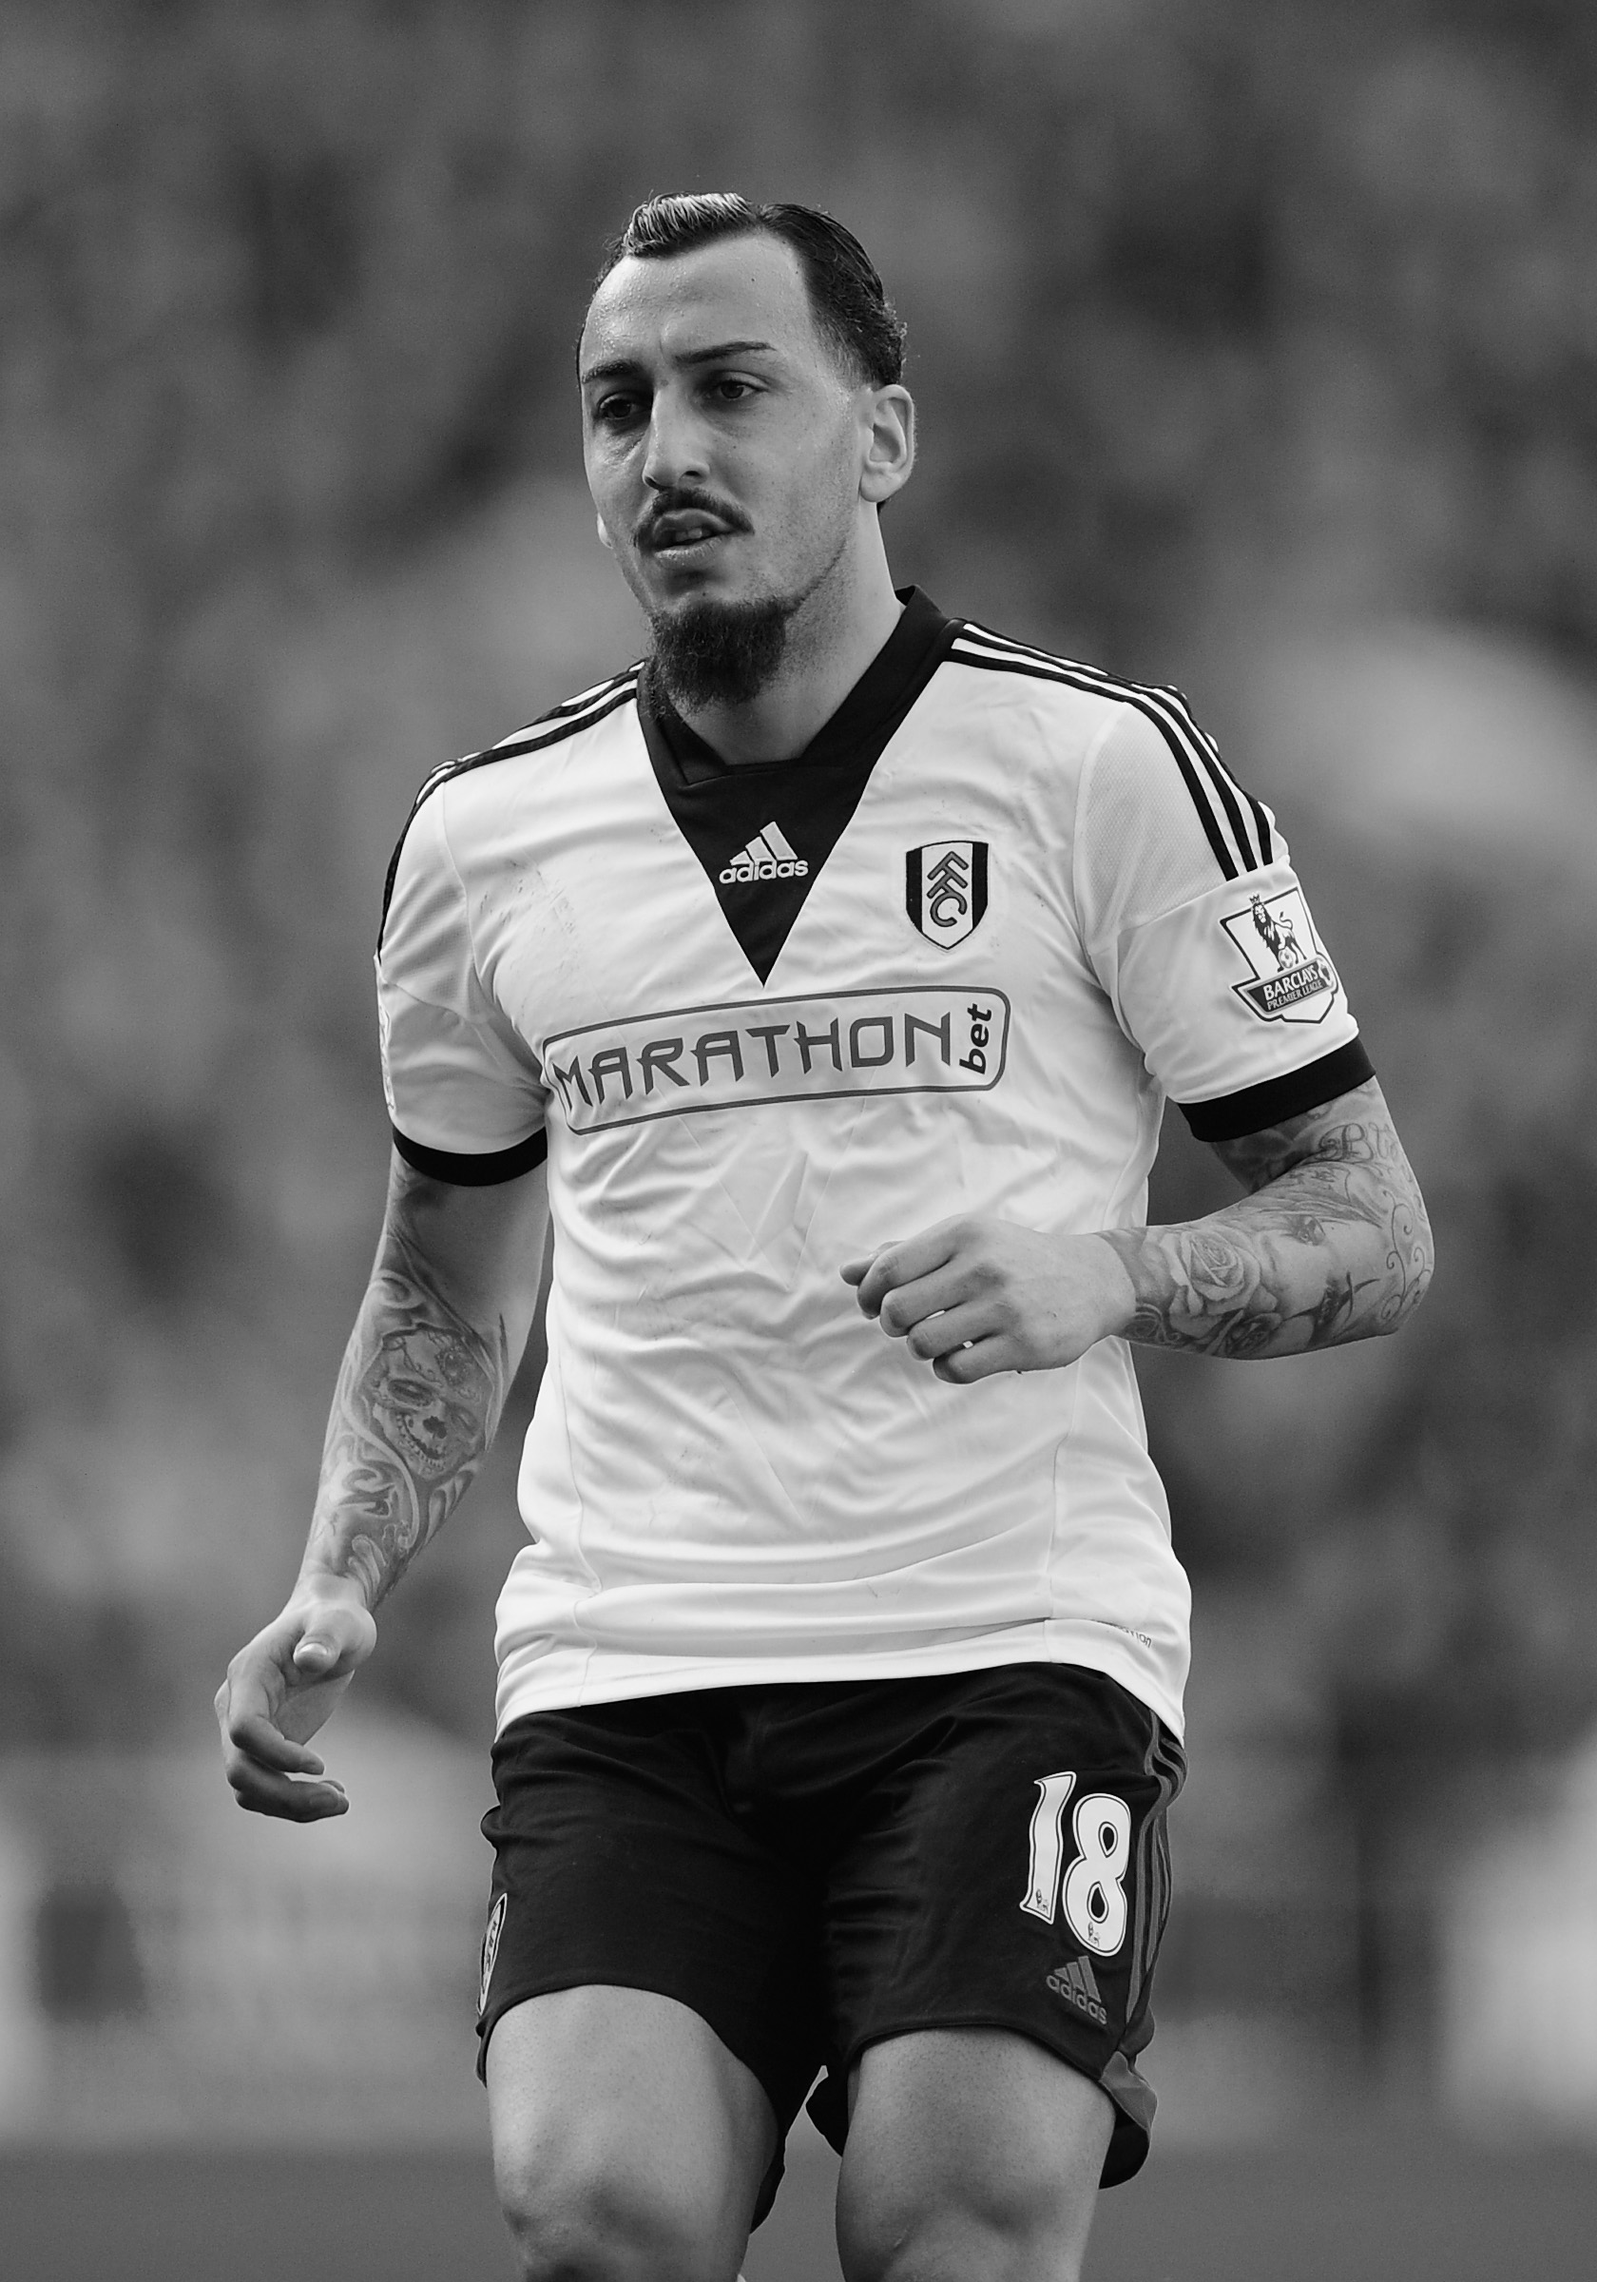
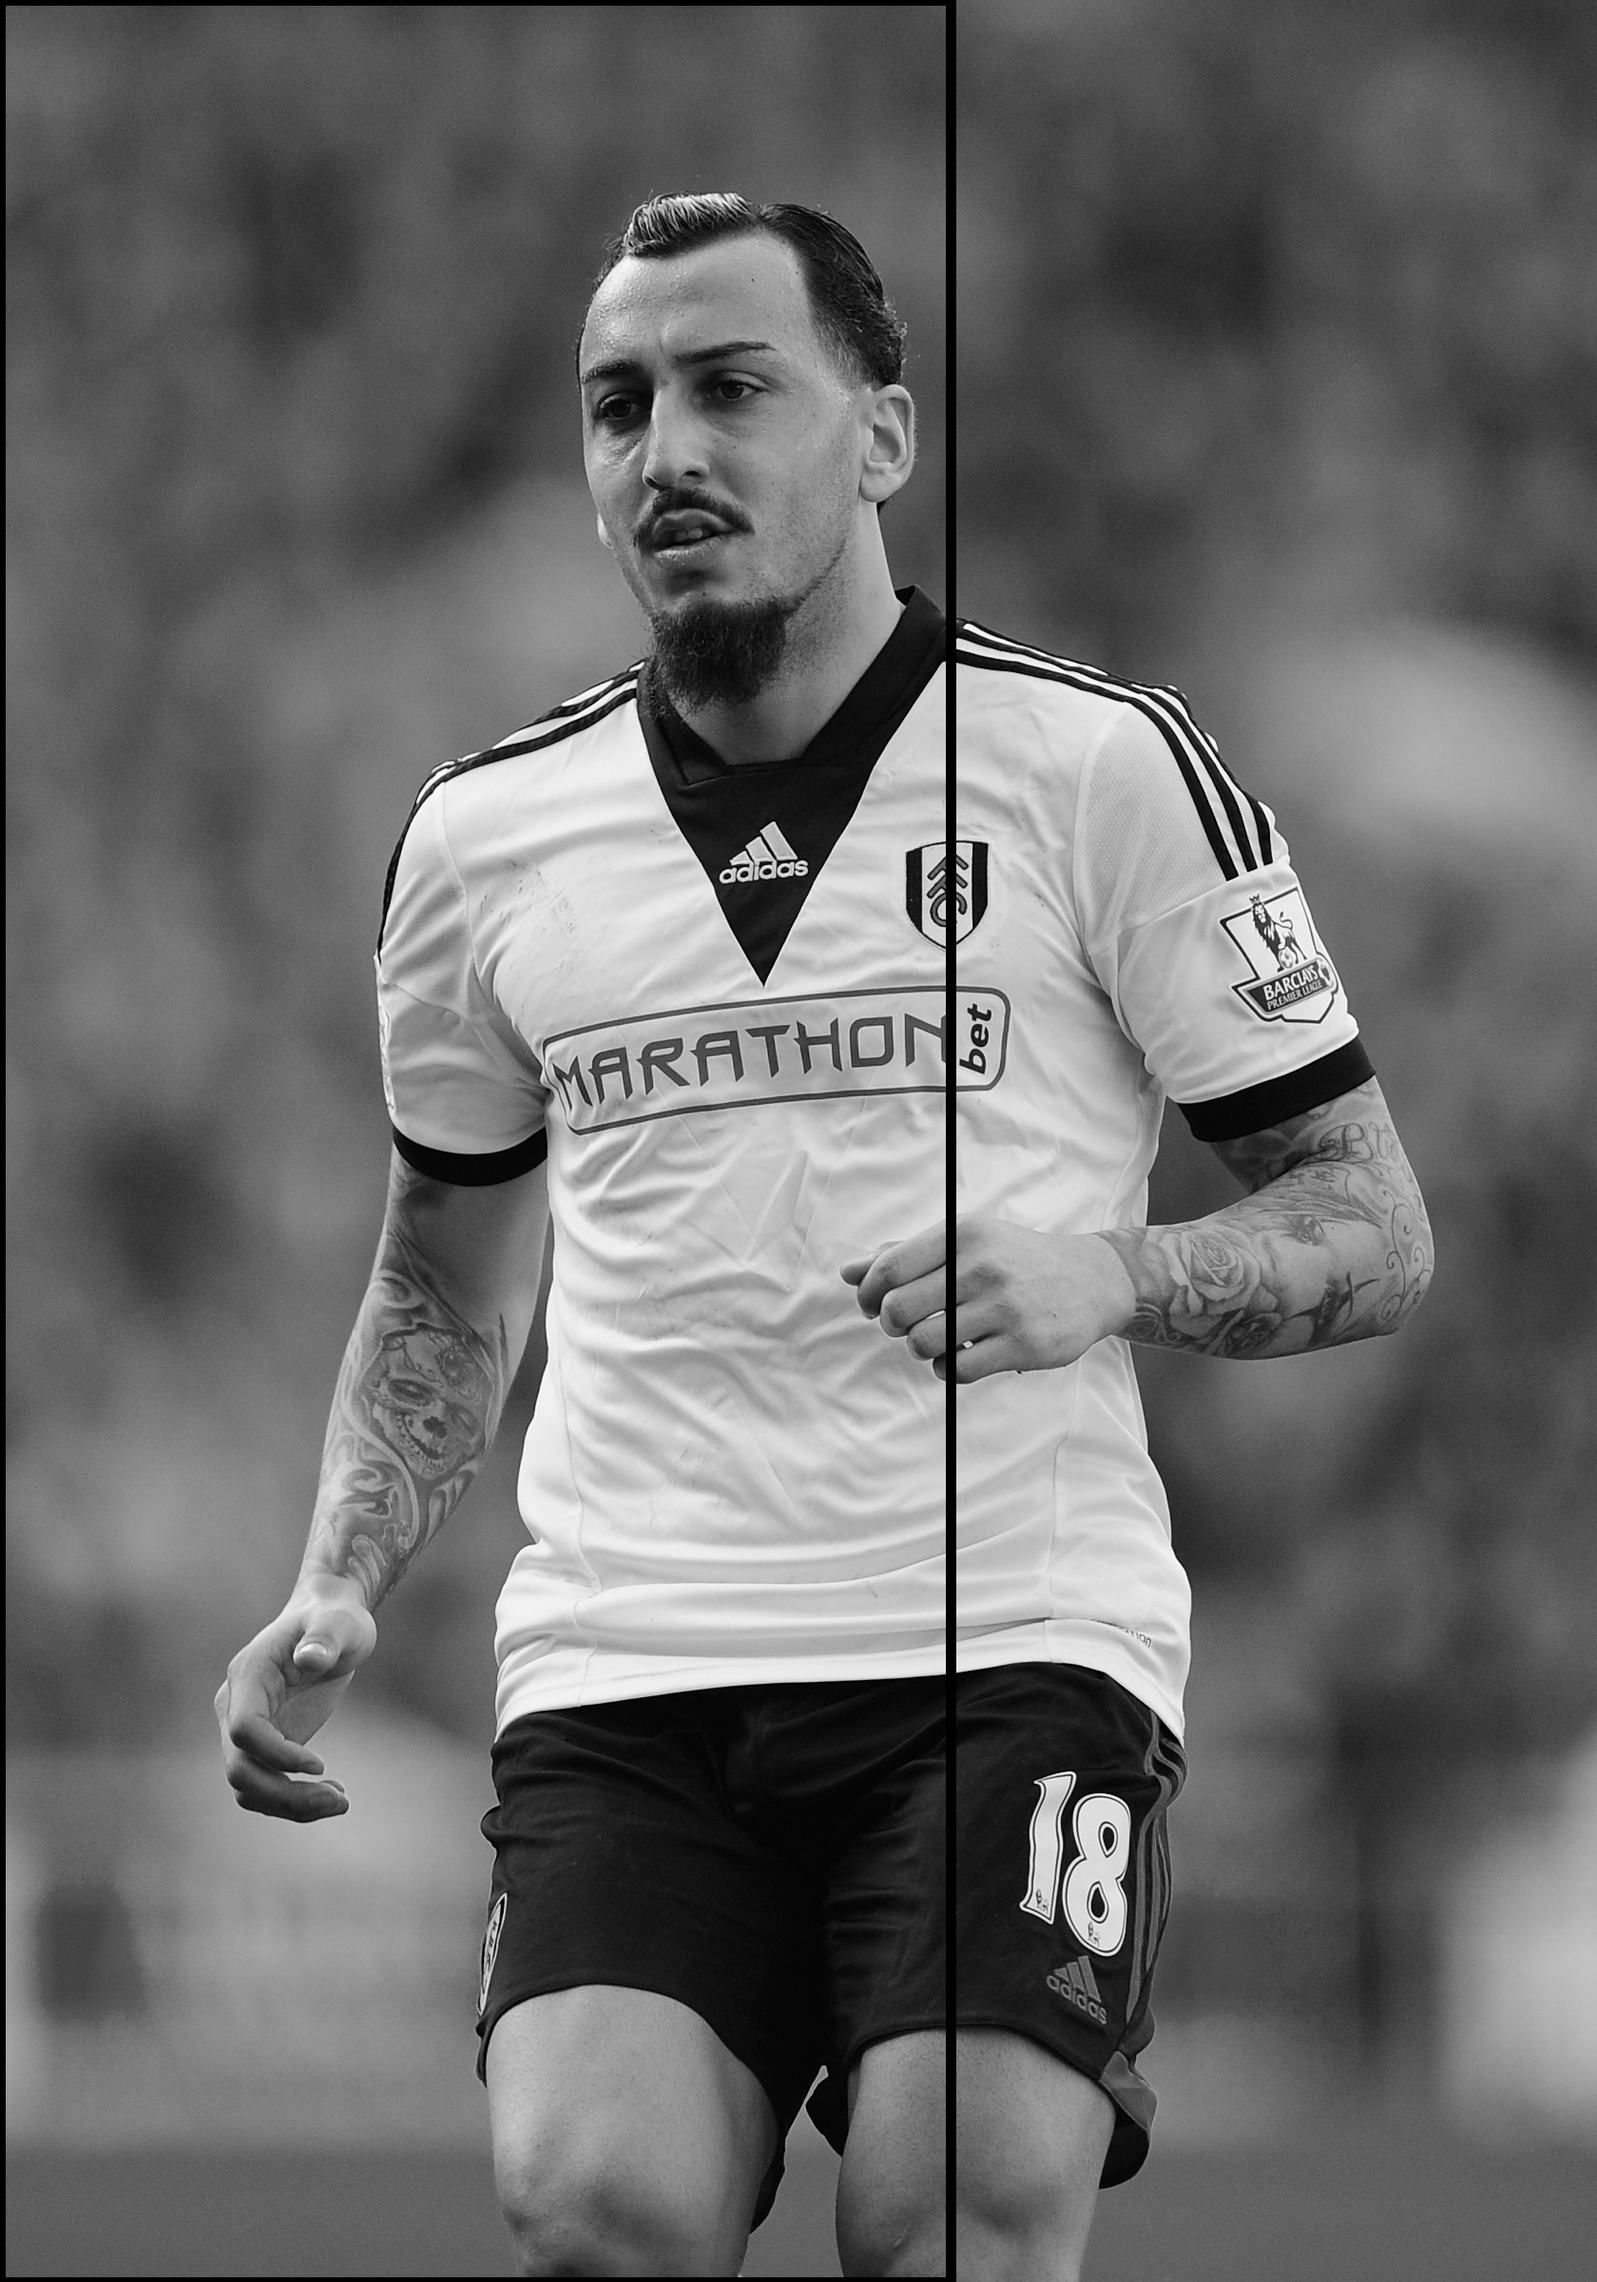
Now optimises headline position.

Changed region(s): [[0.5881, 0.0, 0.619, 1.0], [0.0, 0.0, 0.031, 1.0]]

diff --git a/src/main/java/uk/co/bbc/EdgeDetectionDemo.java b/src/main/java/uk/co/bbc/EdgeDetectionDemo.java
@@ -8,6 +8,8 @@ import org.apache.commons.io.FilenameUtils;
 import java.io.File;
 
 public class EdgeDetectionDemo {
+    private static final int HEADLINE_PANEL_WIDTH = 1000;
+
     public static void main(String[] args) {
         System.loadLibrary("opencv_java249");
 
@@ -15,20 +17,37 @@ public class EdgeDetectionDemo {
         File folder = new File("resources/input");
         File[] listOfFiles = folder.listFiles();
 
-        int i = 1;
-        for (File inputImageFile : listOfFiles) {
-            System.out.println(i++ + " of " + listOfFiles.length);
+        for (int i = 0; i<4; i++) {
+            File inputImageFile = listOfFiles[i];
+            System.out.println(i + " of " + listOfFiles.length);
             Mat inputImage = Highgui.imread(inputImageFile.getAbsolutePath(), Highgui.CV_LOAD_IMAGE_GRAYSCALE);
             Mat result = getEdgeMap(inputImage);
+            int bestLeftEdge = getBestLeftEdge(result);
             Mat scaleMatrix = new Mat(inputImage.height(),inputImage.width(), CvType.CV_64F, new Scalar(Core.minMaxLoc(result).maxVal/255.0));
             Core.divide(result, scaleMatrix, result); //Not ideal: I only want to divide by a scalar.
 
             String inputFilename = "resources/results/" + FilenameUtils.removeExtension(inputImageFile.getName()) + "_input.png";
+            Core.rectangle(inputImage, new Point(bestLeftEdge,0), new Point (bestLeftEdge + HEADLINE_PANEL_WIDTH, inputImage.height()), new Scalar(0), 10);
             Highgui.imwrite(inputFilename, inputImage);
+
 
             String outputFilename = "resources/results/" + FilenameUtils.removeExtension(inputImageFile.getName()) + "_output.png";
             Highgui.imwrite(outputFilename, result);
         }
+    }
+
+    private static int getBestLeftEdge(Mat result) {
+        System.out.println("Optimizing position of headline.");
+        int bestLeftEdge = 0;
+        Double lowestInterestScore = null;
+        for (int x=0; x<result.width()-HEADLINE_PANEL_WIDTH; x++) {
+            double interestScore = Core.sumElems(result.colRange(x, x + HEADLINE_PANEL_WIDTH)).val[0];
+            if (lowestInterestScore == null || interestScore < lowestInterestScore){
+                lowestInterestScore = interestScore;
+                bestLeftEdge = x;
+            }
+        }
+        return bestLeftEdge;
     }
 
     private static Mat getEdgeMap(Mat inputImage) {
